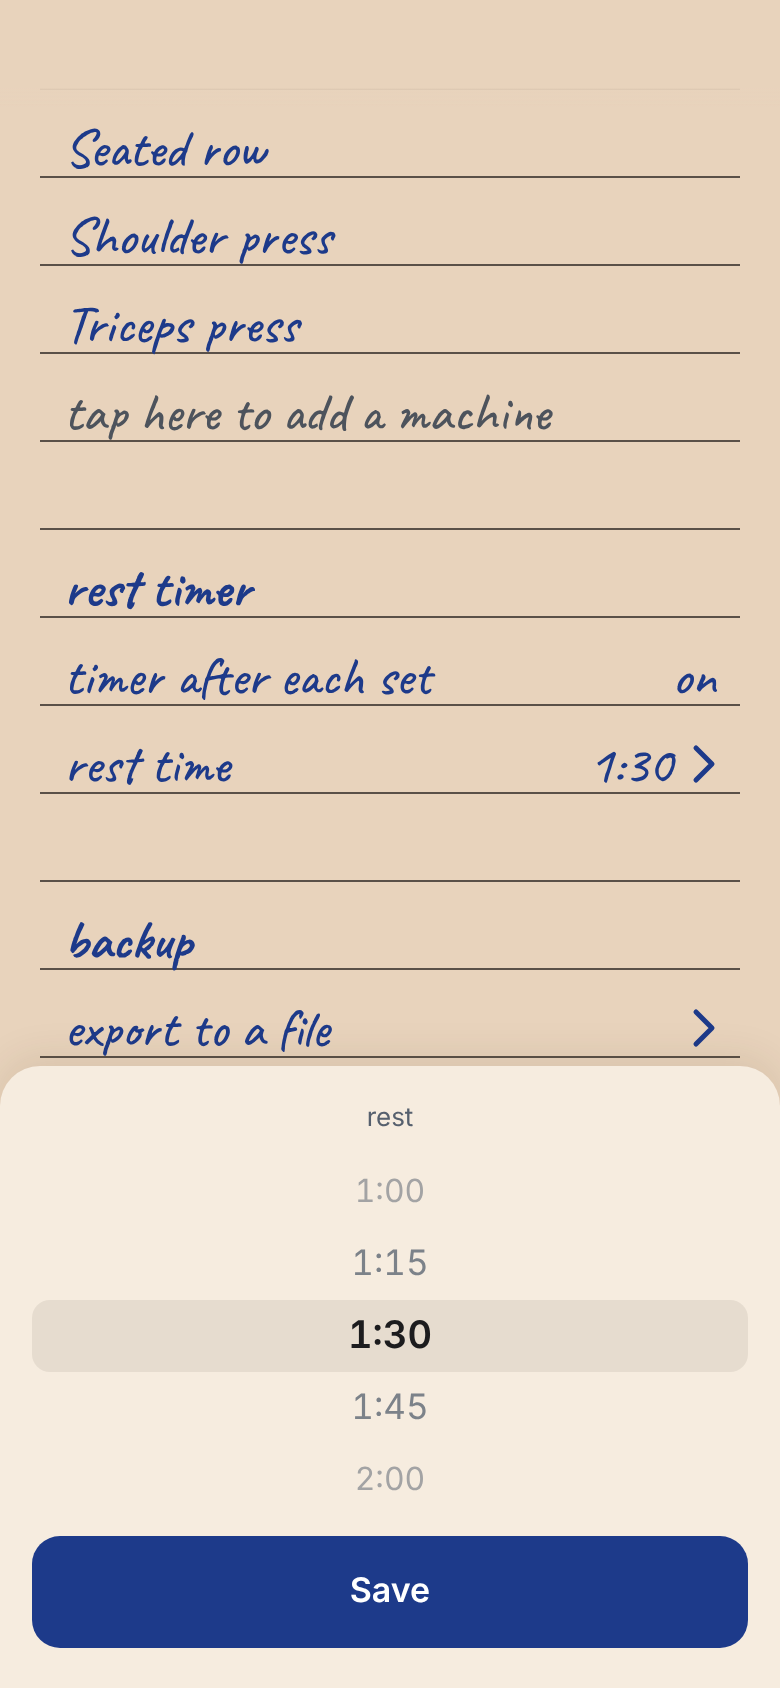
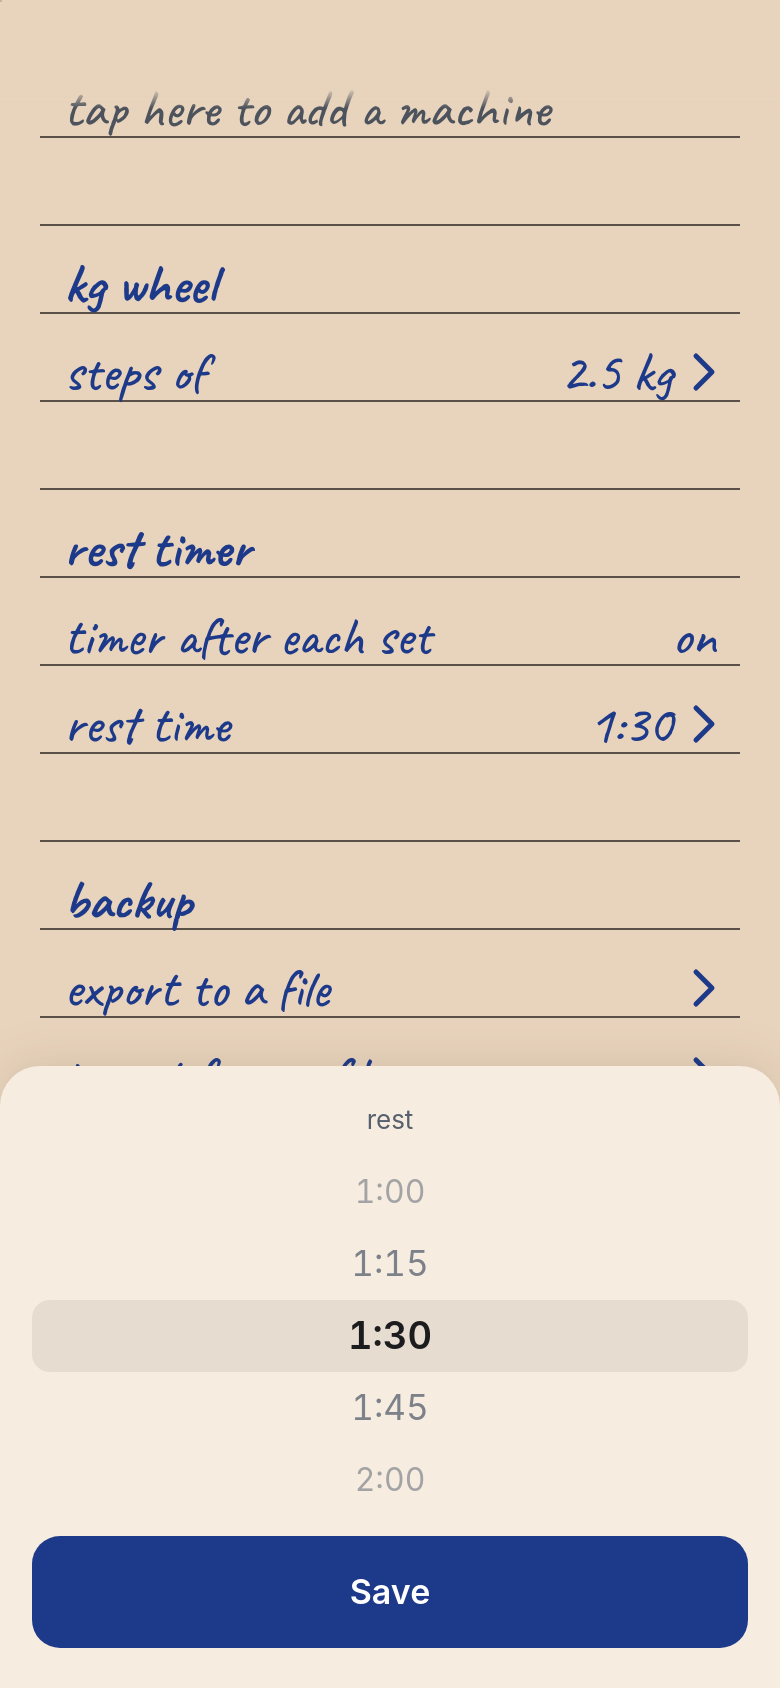
Settings: steps of 0.5 or 2.5 kg on the kg wheel
Small dumbbells go up by 0.5 kg. Settings has a new part, "kg wheel",
with "steps of": 2.5 kg (as before) or 0.5 kg. One setting for every
machine; it is kept with the other settings, not in the notebook.

- Prefs: kgStep, one of KG_STEPS; anything else falls back to 2.5.
- Progress.kgOptions takes the step.
- Tests: unit tests for the setting and the wheel; a browser test that
  picks 0.5 kg and finds it kept after a reload.
- Designs: new screens 30 (pick the step) and 31 (the kg wheel in steps
  of 0.5); screen 12 taken again, since the kg wheel part sits above it.

diff --git a/index.html b/index.html
@@ -606,6 +606,9 @@ body.is-dragging, body.is-dragging * { cursor: grabbing !important; }
     <div id="machineList" class="bleed" role="list" aria-label="Machines"></div>
     <div id="addMachineRow" class="bleed add-row add-row--pencil"></div>
     <div class="blank" aria-hidden="true"></div>
+    <h2 class="section-title">kg wheel</h2>
+    <button id="kgStepBtn" class="stat-link" type="button"><span>steps of</span><span class="stat-value"><span id="kgStepValue">2.5 kg</span><svg width="12" height="22" viewBox="0 0 12 22" fill="none" stroke="currentColor" stroke-width="2.5" stroke-linecap="round" stroke-linejoin="round" aria-hidden="true" focusable="false"><path d="M2 3l8 8-8 8"/></svg></span></button>
+    <div class="blank" aria-hidden="true"></div>
     <h2 class="section-title">rest timer</h2>
     <button id="timerOnBtn" class="stat-link" type="button" role="switch" aria-checked="true"><span>timer after each set</span><span id="timerOnValue" class="stat-value">on</span></button>
     <button id="restTimeBtn" class="stat-link" type="button"><span>rest time</span><span class="stat-value"><span id="restTimeValue">1:30</span><svg width="12" height="22" viewBox="0 0 12 22" fill="none" stroke="currentColor" stroke-width="2.5" stroke-linecap="round" stroke-linejoin="round" aria-hidden="true" focusable="false"><path d="M2 3l8 8-8 8"/></svg></span></button>
@@ -779,7 +782,8 @@ body.is-dragging, body.is-dragging * { cursor: grabbing !important; }
   const DAY_NAMES = ['zo', 'ma', 'di', 'wo', 'do', 'vr', 'za']; // Dutch, as in the paper notebook
   const MONTH_NAMES = ['januari', 'februari', 'maart', 'april', 'mei', 'juni', 'juli', 'augustus', 'september', 'oktober', 'november', 'december'];
   const MONTH_SHORT = ['jan', 'feb', 'mrt', 'apr', 'mei', 'jun', 'jul', 'aug', 'sep', 'okt', 'nov', 'dec'];
-  const KG_STEP = 2.5;          // every notch on the kg wheel
+  const KG_STEP = 2.5;          // every notch on the kg wheel, unless settings say otherwise
+  const KG_STEPS = [0.5, 2.5];  // the kg steps to pick from in settings: small dumbbells, and the rest
   const KG_MAX = 300;
   const SETS = range(1, 10);
   const REPS = range(1, 50);
@@ -787,7 +791,7 @@ body.is-dragging, body.is-dragging * { cursor: grabbing !important; }
   const YEARS_BACK = 5;
   const REST_STEP_S = 15;       // every notch on the rest time wheel
   const REST_TIMES_S = range(1, 40).map((n) => n * REST_STEP_S); // 0:15 to 10:00
-  const DEFAULT_PREFS = { timerOn: true, restSeconds: 90 };
+  const DEFAULT_PREFS = { timerOn: true, restSeconds: 90, kgStep: KG_STEP };
 
   const WHEEL_ITEM_PX = 36;     // keep in sync with --wheel-item
   const DELETE_WIDTH_PX = 96;   // width of the revealed Delete button
@@ -810,7 +814,7 @@ body.is-dragging, body.is-dragging * { cursor: grabbing !important; }
     handle: svg(22, 14, 2.2, '<path d="M2 3h18M2 11h18"/>'),
   };
 
-  FN.config = { STORAGE_KEY, PREFS_KEY, TIMER_KEY, DAY_NAMES, MONTH_NAMES, MONTH_SHORT, KG_STEP, KG_MAX, SETS, REPS, FIRST_TIME_VALUES, YEARS_BACK, REST_TIMES_S, DEFAULT_PREFS, WHEEL_ITEM_PX, DELETE_WIDTH_PX, RULE_INSET_PX, OPEN_OFFSET_PX, FULL_SWIPE, UNDO_MS, HOLD_MS, PREVIEW_ID, BLANK_ROW, svg, Icons };
+  FN.config = { STORAGE_KEY, PREFS_KEY, TIMER_KEY, DAY_NAMES, MONTH_NAMES, MONTH_SHORT, KG_STEP, KG_STEPS, KG_MAX, SETS, REPS, FIRST_TIME_VALUES, YEARS_BACK, REST_TIMES_S, DEFAULT_PREFS, WHEEL_ITEM_PX, DELETE_WIDTH_PX, RULE_INSET_PX, OPEN_OFFSET_PX, FULL_SWIPE, UNDO_MS, HOLD_MS, PREVIEW_ID, BLANK_ROW, svg, Icons };
 })(globalThis.FN = globalThis.FN || {});
 </script>
 
@@ -1067,12 +1071,12 @@ body.is-dragging, body.is-dragging * { cursor: grabbing !important; }
 
     /* ---- The kg wheel ---- */
 
-    /** The kg values on the wheel: 0 to KG_MAX in steps of KG_STEP, always including `mustInclude`. */
-    kgOptions(mustInclude) {
+    /** The kg values on the wheel: 0 to KG_MAX in steps of `step`, always including `mustInclude`. */
+    kgOptions(mustInclude, step = KG_STEP) {
       const value = round2(Number(mustInclude) || 0);
       const max = Math.max(KG_MAX, value);
       const options = [];
-      for (let i = 0; round2(i * KG_STEP) <= max; i++) options.push(round2(i * KG_STEP));
+      for (let i = 0; round2(i * step) <= max; i++) options.push(round2(i * step));
       if (!options.includes(value)) {
         options.push(value);
         options.sort((a, b) => a - b);
@@ -1372,11 +1376,12 @@ body.is-dragging, body.is-dragging * { cursor: grabbing !important; }
  *
  * Shape
  *   { timerOn: true | false,   the rest timer is switched on
- *     restSeconds: 90 }        how long the rest timer runs, one of REST_TIMES_S
+ *     restSeconds: 90,         how long the rest timer runs, one of REST_TIMES_S
+ *     kgStep: 2.5 }            every notch on the kg wheel, one of KG_STEPS
  */
 (function (FN) {
   'use strict';
-  const { PREFS_KEY, REST_TIMES_S, DEFAULT_PREFS } = FN.config;
+  const { PREFS_KEY, REST_TIMES_S, KG_STEPS, DEFAULT_PREFS } = FN.config;
 
   const Prefs = {
     /** Settings with only known fields and allowed values; anything else falls back to the default. */
@@ -1385,6 +1390,7 @@ body.is-dragging, body.is-dragging * { cursor: grabbing !important; }
       return {
         timerOn: typeof v.timerOn === 'boolean' ? v.timerOn : DEFAULT_PREFS.timerOn,
         restSeconds: REST_TIMES_S.includes(v.restSeconds) ? v.restSeconds : DEFAULT_PREFS.restSeconds,
+        kgStep: KG_STEPS.includes(v.kgStep) ? v.kgStep : DEFAULT_PREFS.kgStep,
       };
     },
 
@@ -3111,11 +3117,13 @@ body.is-dragging, body.is-dragging * { cursor: grabbing !important; }
 
   class LineEditor {
     /** page: the notebook screen. It draws the pencil preview and hears when the panel closes. */
-    constructor({ notebook, sheet, page, timer }) {
+    /** kgStep(): every notch on the kg wheel right now, from settings. */
+    constructor({ notebook, sheet, page, timer, kgStep }) {
       this.notebook = notebook;
       this.sheet = sheet;
       this.page = page;
       this.timer = timer;
+      this.kgStep = kgStep;
       this.wheels = null;
     }
 
@@ -3134,7 +3142,7 @@ body.is-dragging, body.is-dragging * { cursor: grabbing !important; }
       const machineIndex = this.startMachineIndex();
       const start = this.startValues(hasWheels, machineIndex);
       this.settledIndex = machineIndex;
-      this.kgList = Progress.kgOptions(start.weight);
+      this.kgList = Progress.kgOptions(start.weight, this.kgStep());
 
       this.wheels = this.sheet.open({
         title: this.title(),
@@ -3351,7 +3359,7 @@ body.is-dragging, body.is-dragging * { cursor: grabbing !important; }
       this.settledIndex = index;
       const values = this.fixingMachine ? this.wheelValues() : this.lastTime(this.machines[index]);
       const [, kg, reps] = this.wheels;
-      this.kgList = Progress.kgOptions(values.weight);
+      this.kgList = Progress.kgOptions(values.weight, this.kgStep());
       kg.setItems(this.kgList.map(formatKg), indexOr(this.kgList, round2(values.weight)));
       reps.setIndex(indexOr(REPS, values.reps, REPS_FALLBACK), false);
       this.preview();
@@ -3553,7 +3561,7 @@ body.is-dragging, body.is-dragging * { cursor: grabbing !important; }
   const { DateEditor } = FN.dateEditor;
 
   class NotebookScreen {
-    constructor({ notebook, sheet, toast, timer }) {
+    constructor({ notebook, sheet, toast, timer, app }) {
       this.notebook = notebook;
       this.sheet = sheet;
       this.toast = toast;
@@ -3566,7 +3574,7 @@ body.is-dragging, body.is-dragging * { cursor: grabbing !important; }
       this.filler = byId('notebookFiller');
       this.todayBtn = byId('todayBtn');
       this.busy = false; // a panel is open
-      this.lineEditor = new LineEditor({ notebook, sheet, page: this, timer });
+      this.lineEditor = new LineEditor({ notebook, sheet, page: this, timer, kgStep: () => app.prefs.kgStep });
       this.dateEditor = new DateEditor({ notebook, sheet, page: this });
       this.listen();
     }
@@ -3789,8 +3797,11 @@ body.is-dragging, body.is-dragging * { cursor: grabbing !important; }
   const { LineInput } = FN.lineInput;
   const { SwipeRows } = FN.swipeRows;
   const { HoldSort } = FN.holdSort;
-  const { REST_TIMES_S, Icons } = FN.config;
-  const { indexOr } = FN.util;
+  const { REST_TIMES_S, KG_STEPS, Icons } = FN.config;
+  const { indexOr, formatKg } = FN.util;
+
+  /** A kg step as settings write it: "0.5 kg". */
+  const kgText = (kg) => `${formatKg(kg)} kg`;
   const { Prefs } = FN.prefs;
 
   class SettingsScreen {
@@ -3808,6 +3819,7 @@ body.is-dragging, body.is-dragging * { cursor: grabbing !important; }
       this.importFile = byId('importFile');
       this.timerOnBtn = byId('timerOnBtn');
       this.restTimeBtn = byId('restTimeBtn');
+      this.kgStepBtn = byId('kgStepBtn');
       this.listen();
     }
 
@@ -3815,6 +3827,7 @@ body.is-dragging, body.is-dragging * { cursor: grabbing !important; }
       this.renderPlans();
       this.renderList();
       this.renderAddRow();
+      this.renderKgStep();
       this.renderTimer();
       this.examplesBtn.hidden = !this.notebook.hasExamples();
     }
@@ -3963,6 +3976,27 @@ body.is-dragging, body.is-dragging * { cursor: grabbing !important; }
       });
     }
 
+    /* ---- Kg wheel ---- */
+
+    renderKgStep() {
+      byId('kgStepValue').textContent = kgText(this.app.prefs.kgStep);
+    }
+
+    pickKgStep() {
+      const [wheel] = this.sheet.open({
+        title: 'Steps on the kg wheel',
+        columns: '96px',
+        center: true,
+        labels: [{ text: 'step' }],
+        wheels: [{ label: 'Kg step', items: KG_STEPS.map(kgText), index: indexOr(KG_STEPS, this.app.prefs.kgStep) }],
+        actionLabel: 'Save',
+        onAction: () => {
+          this.app.setPrefs({ kgStep: KG_STEPS[wheel.index] });
+          this.renderKgStep();
+        },
+      });
+    }
+
     /* ---- Backup ---- */
 
     exportFile() {
@@ -4057,6 +4091,7 @@ body.is-dragging, body.is-dragging * { cursor: grabbing !important; }
 
       this.timerOnBtn.addEventListener('click', () => this.toggleTimer());
       this.restTimeBtn.addEventListener('click', () => this.pickRestTime());
+      this.kgStepBtn.addEventListener('click', () => this.pickKgStep());
 
       byId('exportBtn').addEventListener('click', () => this.exportFile());
       byId('importBtn').addEventListener('click', () => this.importFile.click());
@@ -4540,7 +4575,7 @@ body.is-dragging, body.is-dragging * { cursor: grabbing !important; }
       return target.view === 'plan' && !this.notebook.plan(target.planId) ? { view: 'settings' } : target;
     }
 
-    /** Changes some settings and saves them. `changes` is part of { timerOn, restSeconds }. */
+    /** Changes some settings and saves them. `changes` is part of { timerOn, restSeconds, kgStep }. */
     setPrefs(changes) {
       this.prefs = Prefs.clean({ ...this.prefs, ...changes });
       Prefs.save(this.prefs);

diff --git a/tests/unit/prefs.test.js b/tests/unit/prefs.test.js
@@ -3,7 +3,7 @@ import assert from 'node:assert/strict';
 import { load } from './load.js';
 
 const { Prefs } = load('prefs');
-const { PREFS_KEY, STORAGE_KEY, REST_TIMES_S, DEFAULT_PREFS } = load('config');
+const { PREFS_KEY, STORAGE_KEY, REST_TIMES_S, KG_STEPS, DEFAULT_PREFS } = load('config');
 
 /** A stand-in for localStorage. */
 function memoryStorage(initial = {}) {
@@ -11,23 +11,24 @@ function memoryStorage(initial = {}) {
   return { getItem: (k) => (k in items ? items[k] : null), setItem: (k, v) => { items[k] = String(v); }, items };
 }
 
-test('Prefs: the timer is on with 1:30 rest when nothing is saved', () => {
-  assert.deepEqual(DEFAULT_PREFS, { timerOn: true, restSeconds: 90 });
+test('Prefs: the timer is on with 1:30 rest, and the kg wheel goes by 2.5, when nothing is saved', () => {
+  assert.deepEqual(DEFAULT_PREFS, { timerOn: true, restSeconds: 90, kgStep: 2.5 });
   assert.deepEqual(Prefs.load(memoryStorage()), DEFAULT_PREFS);
 });
 
 test('Prefs: saves and loads, apart from the notebook', () => {
   const storage = memoryStorage();
-  assert.ok(Prefs.save({ timerOn: false, restSeconds: 120 }, storage));
+  assert.ok(Prefs.save({ timerOn: false, restSeconds: 120, kgStep: 0.5 }, storage));
   assert.notEqual(PREFS_KEY, STORAGE_KEY);
   assert.ok(!(STORAGE_KEY in storage.items));
-  assert.deepEqual(Prefs.load(storage), { timerOn: false, restSeconds: 120 });
+  assert.deepEqual(Prefs.load(storage), { timerOn: false, restSeconds: 120, kgStep: 0.5 });
 });
 
 test('Prefs: bad or unknown values fall back to the defaults', () => {
   assert.deepEqual(Prefs.clean(null), DEFAULT_PREFS);
-  assert.deepEqual(Prefs.clean({ timerOn: 'yes', restSeconds: 91, beep: true }), DEFAULT_PREFS);
-  assert.deepEqual(Prefs.clean({ timerOn: false }), { timerOn: false, restSeconds: 90 });
+  assert.deepEqual(Prefs.clean({ timerOn: 'yes', restSeconds: 91, kgStep: 1, beep: true }), DEFAULT_PREFS);
+  assert.deepEqual(Prefs.clean({ kgStep: '0.5' }), DEFAULT_PREFS);
+  assert.deepEqual(Prefs.clean({ timerOn: false }), { timerOn: false, restSeconds: 90, kgStep: 2.5 });
   assert.deepEqual(Prefs.load(memoryStorage({ [PREFS_KEY]: '{not json' })), DEFAULT_PREFS);
 });
 
@@ -41,6 +42,11 @@ test('Prefs: rest times run from 0:15 to 10:00 in steps of 15 seconds', () => {
   assert.equal(REST_TIMES_S[0], 15);
   assert.equal(REST_TIMES_S.at(-1), 600);
   assert.ok(REST_TIMES_S.includes(DEFAULT_PREFS.restSeconds));
+});
+
+test('Prefs: the kg wheel goes by 0.5 (small dumbbells) or 2.5', () => {
+  assert.deepEqual(KG_STEPS, [0.5, 2.5]);
+  for (const kgStep of KG_STEPS) assert.equal(Prefs.clean({ kgStep }).kgStep, kgStep);
 });
 
 test('Prefs: clock', () => {

diff --git a/tests/e2e/settings.spec.js b/tests/e2e/settings.spec.js
@@ -172,3 +172,20 @@ test('a quick tap on a plan still opens it', async ({ page }) => {
   await page.locator('#planList .row .name').filter({ hasText: 'Push' }).click();
   await expect(page.locator('#planTitle')).toHaveText('Push');
 });
+
+test('steps of 0.5 kg on the kg wheel, for small dumbbells; kept after a reload', async ({ page }) => {
+  await expect(page.locator('#kgStepValue')).toHaveText('2.5 kg');
+  await page.getByRole('button', { name: /steps of/ }).click();
+  await pick(page, 'Kg step', '0.5 kg');
+  await actionButton(page).click();
+  await expect(page.locator('#kgStepValue')).toHaveText('0.5 kg');
+
+  await page.reload(); // opens on the notebook
+  await openSettings(page);
+  await expect(page.locator('#kgStepValue')).toHaveText('0.5 kg');
+  await backTo(page, 'notebook');
+  await page.getByRole('button', { name: 'tap to add a line' }).click();
+  const kg = page.getByRole('spinbutton', { name: 'Weight in kg' });
+  const items = await kg.locator('.wheel-item').allTextContents();
+  expect(items.slice(0, 4)).toEqual(['0', '0.5', '1', '1.5']);
+});

diff --git a/tests/unit/progress.test.js b/tests/unit/progress.test.js
@@ -167,6 +167,15 @@ test('plannedInDay: an unknown line has no pencil lines, even when the notebook 
   assert.deepEqual(Progress.plannedInDay([planned('p1', 'curl'), planned('p2', 'calf')], 'nope'), []);
 });
 
+test('kgOptions: another step, for small dumbbells', () => {
+  const options = Progress.kgOptions(0, 0.5);
+  assert.deepEqual(options.slice(0, 4), [0, 0.5, 1, 1.5]);
+  assert.equal(options.at(-1), 300);
+  assert.equal(options.length, 601);
+  const odd = Progress.kgOptions(12.25, 0.5);
+  assert.deepEqual(odd.slice(odd.indexOf(12.25) - 1, odd.indexOf(12.25) + 2), [12, 12.25, 12.5]);
+});
+
 test('kgOptions: a value already on the wheel is there once', () => {
   for (const kg of [0, 35, 300]) {
     const options = Progress.kgOptions(kg);

diff --git a/design/README.md b/design/README.md
@@ -16,7 +16,7 @@ They are pictures of the real `index.html`, so they show what is built. Screens 
 | Change a line | [08-change-line.png](08-change-line.png) | Tap a line: "Log set 4" adds a set to it |
 | Change a line | [09-change-line-save.png](09-change-line-save.png) | Change kg or reps: the line shows in pencil and the button says Save |
 | Remove a line | [10-remove-line.png](10-remove-line.png) | Drag left to delete |
-| Settings | [11-settings.png](11-settings.png) | Plans (none yet) and the machines. Rest timer and backup are further down |
+| Settings | [11-settings.png](11-settings.png) | Plans (none yet) and the machines. The kg wheel, rest timer and backup are further down |
 | Settings | [12-settings-rest-time.png](12-settings-rest-time.png) | Pick the rest time, 0:15 to 10:00 |
 | Settings | [13-settings-export.png](13-settings-export.png) | Export: saved as a JSON file |
 | Settings | [14-settings-import.png](14-settings-import.png) | Import: check the file, then replace |
@@ -35,6 +35,8 @@ They are pictures of the real `index.html`, so they show what is built. Screens 
 | A day from a plan | [27-plan-other-reps.png](27-plan-other-reps.png) | Other kg or reps start a new line right under it |
 | Settings | [28-settings-import-text.png](28-settings-import-text.png) | "import from text": paste the text of a backup. "Check the text" checks it like a file, then asks before it replaces anything |
 | Settings | [29-settings-import-text-wrong.png](29-settings-import-text-wrong.png) | Text that is not a backup: the panel says so and keeps the text |
+| Kg wheel | [30-settings-kg-step.png](30-settings-kg-step.png) | Settings, "steps of": the kg wheel goes by 2.5 kg, or by 0.5 kg for small dumbbells. One setting for every machine |
+| Kg wheel | [31-add-line-half-kg.png](31-add-line-half-kg.png) | With steps of 0.5 kg: 12, 12.5, 13 on the kg wheel |
 
 ## Look
 
